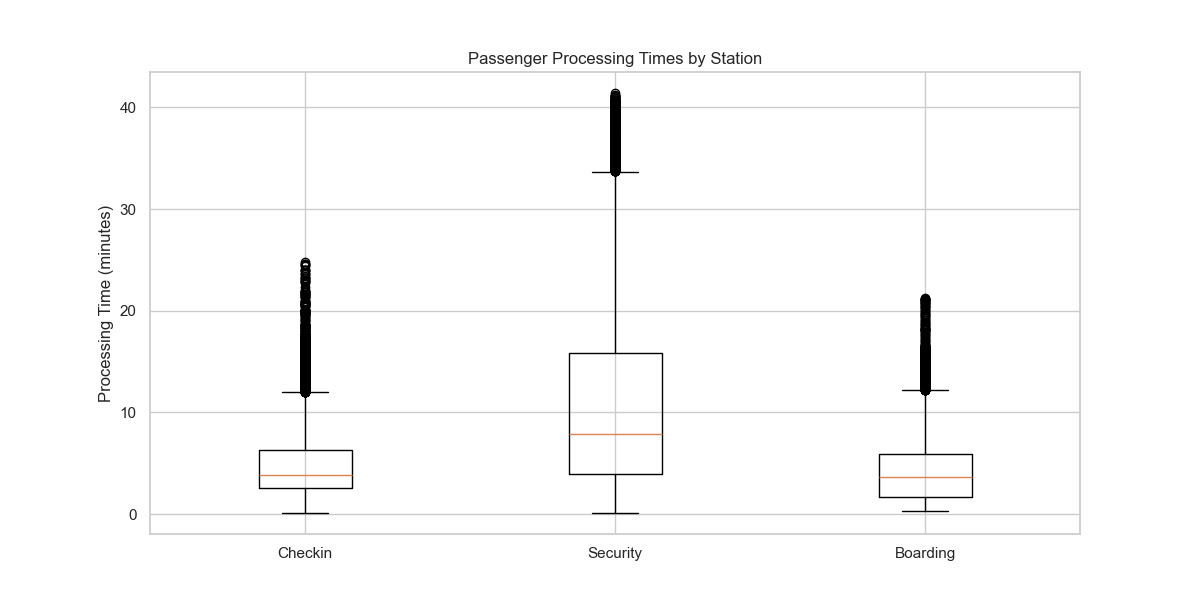
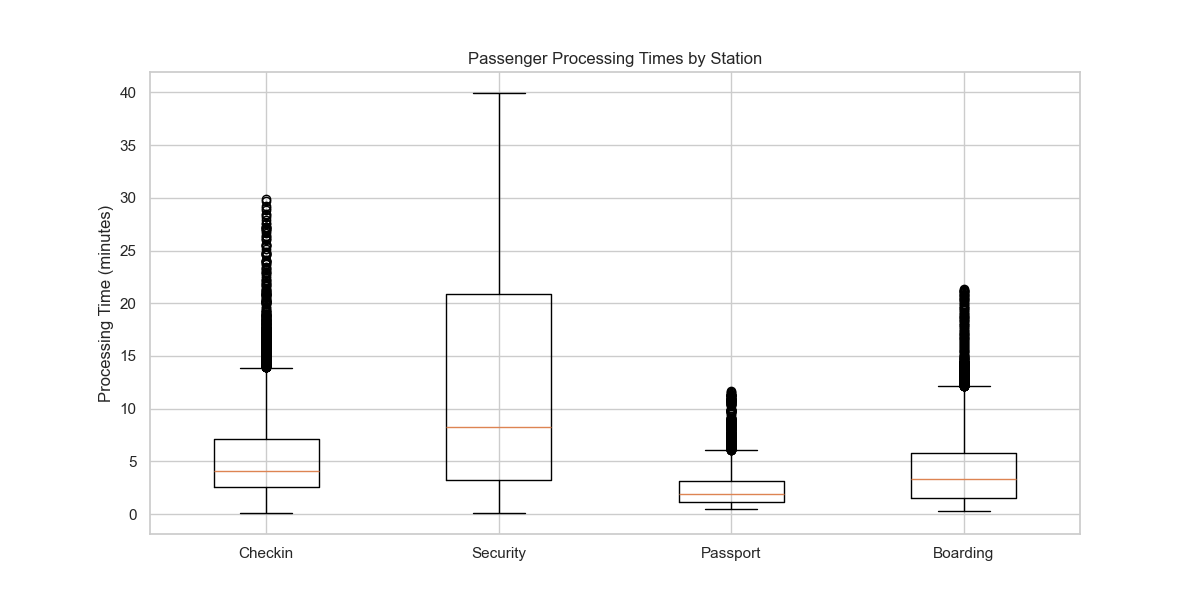
feat: add new visualization plots and utilization calculations, fixed passport missuse

diff --git a/src/visualization/plots.py b/src/visualization/plots.py
@@ -82,3 +82,99 @@ def plot_passenger_times(simulation):
 
     except Exception as e:
         print(f"Error plotting passenger times: {str(e)}")
+
+
+def plot_average_times_breakdown(results):
+    """Plot breakdown of average time spent in each stage"""
+    try:
+        stations = ["checkin", "security", "passport", "boarding"]
+        avg_times = [results[f"{s}_avg_wait"] for s in stations]
+
+        plt.figure(figsize=(10, 6))
+        bars = plt.bar(stations, avg_times)
+
+        # Add value labels on top of bars
+        for bar in bars:
+            height = bar.get_height()
+            plt.text(
+                bar.get_x() + bar.get_width() / 2.0,
+                height,
+                f"{height:.1f}m",
+                ha="center",
+                va="bottom",
+            )
+
+        plt.title("Average Time Spent per Station")
+        plt.xlabel("Processing Station")
+        plt.ylabel("Average Time (minutes)")
+        plt.grid(True, alpha=0.3)
+        plt.savefig("results/plots/average_times_breakdown.png")
+        plt.close()
+
+    except Exception as e:
+        print(f"Error plotting average times breakdown: {str(e)}")
+
+
+def plot_passenger_flow(results):
+    """Plot cumulative passenger flow through stations"""
+    try:
+        x = np.arange(0, 24 * 60, 5)  # 5-minute intervals
+        stations = ["checkin", "security", "passport", "boarding"]
+
+        plt.figure(figsize=(12, 6))
+        for station in stations:
+            queue_data = results["queue_lengths"][station]
+            if queue_data:
+                cumsum = np.cumsum(queue_data)
+                plt.plot(x[: len(cumsum)], cumsum, label=f"{station.capitalize()}")
+
+        plt.title("Cumulative Passenger Flow Through Stations")
+        plt.xlabel("Simulation Time (minutes)")
+        plt.ylabel("Cumulative Passengers")
+        plt.legend()
+        plt.grid(True)
+        plt.savefig("results/plots/passenger_flow.png")
+        plt.close()
+
+    except Exception as e:
+        print(f"Error plotting passenger flow: {str(e)}")
+
+
+def plot_utilization_heatmap(results):
+    """Plot resource utilization heatmap"""
+    try:
+        stations = ["checkin", "security", "passport", "boarding"]
+        times = np.arange(0, 24)  # Hours
+        data = np.zeros((len(stations), 24))
+
+        for i, station in enumerate(stations):
+            util_data = results[f"{station}_utilization"]
+            if len(util_data) >= 288:  # Full day of 5-minute samples
+                # Convert 5-min data to hourly averages
+                for hour in range(24):
+                    start_idx = hour * 12
+                    end_idx = (hour + 1) * 12
+                    hour_data = util_data[start_idx:end_idx]
+                    data[i, hour] = np.mean(hour_data)
+
+        plt.figure(figsize=(15, 6))
+        sns.heatmap(
+            data,
+            xticklabels=times,
+            yticklabels=stations,
+            cmap="YlOrRd",
+            vmin=0,
+            vmax=1,
+            cbar_kws={"label": "Utilization Rate"},
+            annot=True,
+            fmt=".2f",
+        )
+
+        plt.title("Resource Utilization Throughout Day")
+        plt.xlabel("Hour of Day")
+        plt.ylabel("Station")
+        plt.savefig("results/plots/utilization_heatmap.png")
+        plt.close()
+
+    except Exception as e:
+        print(f"Error plotting utilization heatmap: {str(e)}")

diff --git a/src/simulation/monitor.py b/src/simulation/monitor.py
@@ -17,20 +17,35 @@ class SimulationMonitor:
                 # Queue lengths
                 queue_length = len(station.queue)
                 self.stats.record_queue_length(
-                    station=name, length=queue_length, time=current_time
+                    station=name,
+                    length=queue_length,
+                    time=current_time
                 )
 
-                # Resource utilization
-                if hasattr(station, "resource"):
-                    util = station.resource.count / station.resource.capacity
-                    self.stats.record_utilization(name, util, current_time)
-                elif name == "checkin":
-                    # Special handling for check-in with multiple resources
+                # Calculate utilization based on station type
+                if name == "checkin":
                     total_used = station.iberia_desks.count + station.other_desks.count
-                    total_capacity = (
-                        station.iberia_desks.capacity + station.other_desks.capacity
-                    )
-                    util = total_used / total_capacity
-                    self.stats.record_utilization(name, util, current_time)
+                    total_capacity = station.iberia_desks.capacity + station.other_desks.capacity
+                    util = total_used / total_capacity if total_capacity > 0 else 0
+
+                elif name == "security":
+                    util = station.lanes.count / station.lanes.capacity
+
+                elif name == "passport":
+                    total_used = station.booths.count + station.egates.count
+                    total_capacity = station.booths.capacity + station.egates.capacity
+                    util = total_used / total_capacity if total_capacity > 0 else 0
+
+                elif name == "boarding":
+                    # Calculate total utilization across all flight agents
+                    if station.flight_agents:
+                        total_used = sum(agent.count for agent in station.flight_agents.values())
+                        total_capacity = sum(agent.capacity for agent in station.flight_agents.values())
+                        util = total_used / total_capacity if total_capacity > 0 else 0
+                    else:
+                        util = 0.0
+
+                # Record utilization
+                self.stats.record_utilization(name, util, current_time)
 
             yield self.env.timeout(5)  # Monitor every 5 minutes

diff --git a/src/utils/data_loader.py b/src/utils/data_loader.py
@@ -25,6 +25,24 @@ def get_hourly_pattern():
 
 def generate_synthetic_flights():
     """Generate synthetic flight data based on config parameters"""
+    # Destinations with Schengen/non-Schengen mix
+    DESTINATIONS = {
+        # Schengen (70%)
+        "BCN": 0.20,  # Barcelona
+        "PMI": 0.15,  # Palma
+        "FRA": 0.10,  # Frankfurt
+        "CDG": 0.15,  # Paris
+        "AMS": 0.10,  # Amsterdam
+        # Non-Schengen (30%)
+        "LHR": 0.10,  # London
+        "JFK": 0.10,  # New York
+        "DXB": 0.10,  # Dubai
+    }
+
+    # Validate probability sum
+    if not np.isclose(sum(DESTINATIONS.values()), 1.0):
+        raise ValueError("Destination probabilities must sum to 1")
+
     # Validate probability sums
     aircraft_sum = sum(AIRCRAFT_MIX.values())
     print(f"\nAircraft mix probabilities sum: {aircraft_sum}")
@@ -54,10 +72,15 @@ def generate_synthetic_flights():
                 list(AIRCRAFT_MIX.keys()), p=list(AIRCRAFT_MIX.values())
             )
 
+            # Select destination based on probabilities
+            destination = np.random.choice(
+                list(DESTINATIONS.keys()), p=list(DESTINATIONS.values())
+            )
+
             flight = {
                 "scheduled_time": current_time,
-                "flight": f"IB{flight_counter}",  # Changed from flight_number to flight
-                "destination": "BCN",  # Example Schengen destination
+                "flight": f"IB{flight_counter}",
+                "destination": destination,
                 "aircraft": aircraft,
                 "airline": "Iberia" if np.random.random() < 0.8 else "Air Europa",
             }

diff --git a/main.py b/main.py
@@ -11,6 +11,9 @@ from src.visualization.plots import (
     plot_queue_lengths,
     plot_resource_utilization,
     plot_passenger_times,
+    plot_average_times_breakdown,
+    plot_passenger_flow,
+    plot_utilization_heatmap,
 )
 from src.visualization.statistics import print_statistics
 from src.config import SIM_TIME
@@ -44,9 +47,16 @@ def main():
         # Print and visualize results
         print("\nSimulation Results:")
         print_statistics(results)
+
+        # Original plots
         plot_queue_lengths(results)
         plot_resource_utilization(results)
         plot_passenger_times(simulation)
+
+        # New insights
+        plot_average_times_breakdown(results)
+        plot_passenger_flow(results)
+        plot_utilization_heatmap(results)
 
         print("\nSimulation completed successfully")
         print("Results saved in 'results/plots' directory")

diff --git a/src/models/stations/passport.py b/src/models/stations/passport.py
@@ -1,5 +1,4 @@
 import simpy
-import numpy as np
 from ...config import (
     PASSPORT_BOOTHS,
     PASSPORT_EGATES,
@@ -22,6 +21,13 @@ class PassportControl:
     def queue(self):
         """Total queue length for monitoring"""
         return self.booth_queue + self.egate_queue
+
+    @property
+    def utilization(self):
+        """Calculate current utilization rate"""
+        total_used = self.booths.count + self.egates.count
+        total_capacity = self.booths.capacity + self.egates.capacity
+        return total_used / total_capacity if total_capacity > 0 else 0
 
     def process(self, passenger):
         """Process passenger through passport control"""
